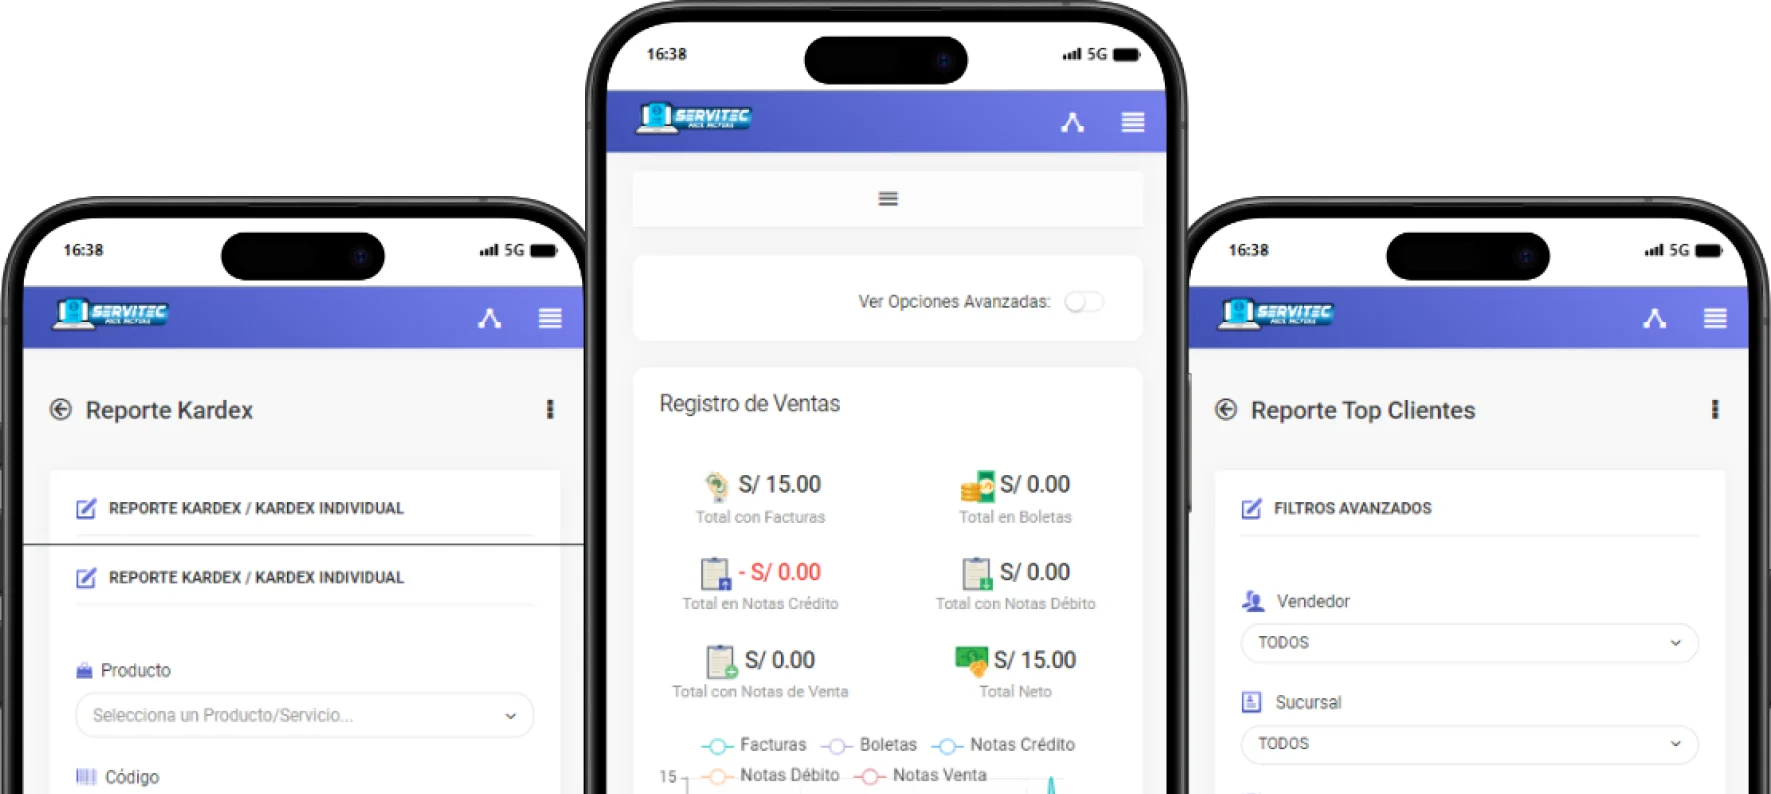
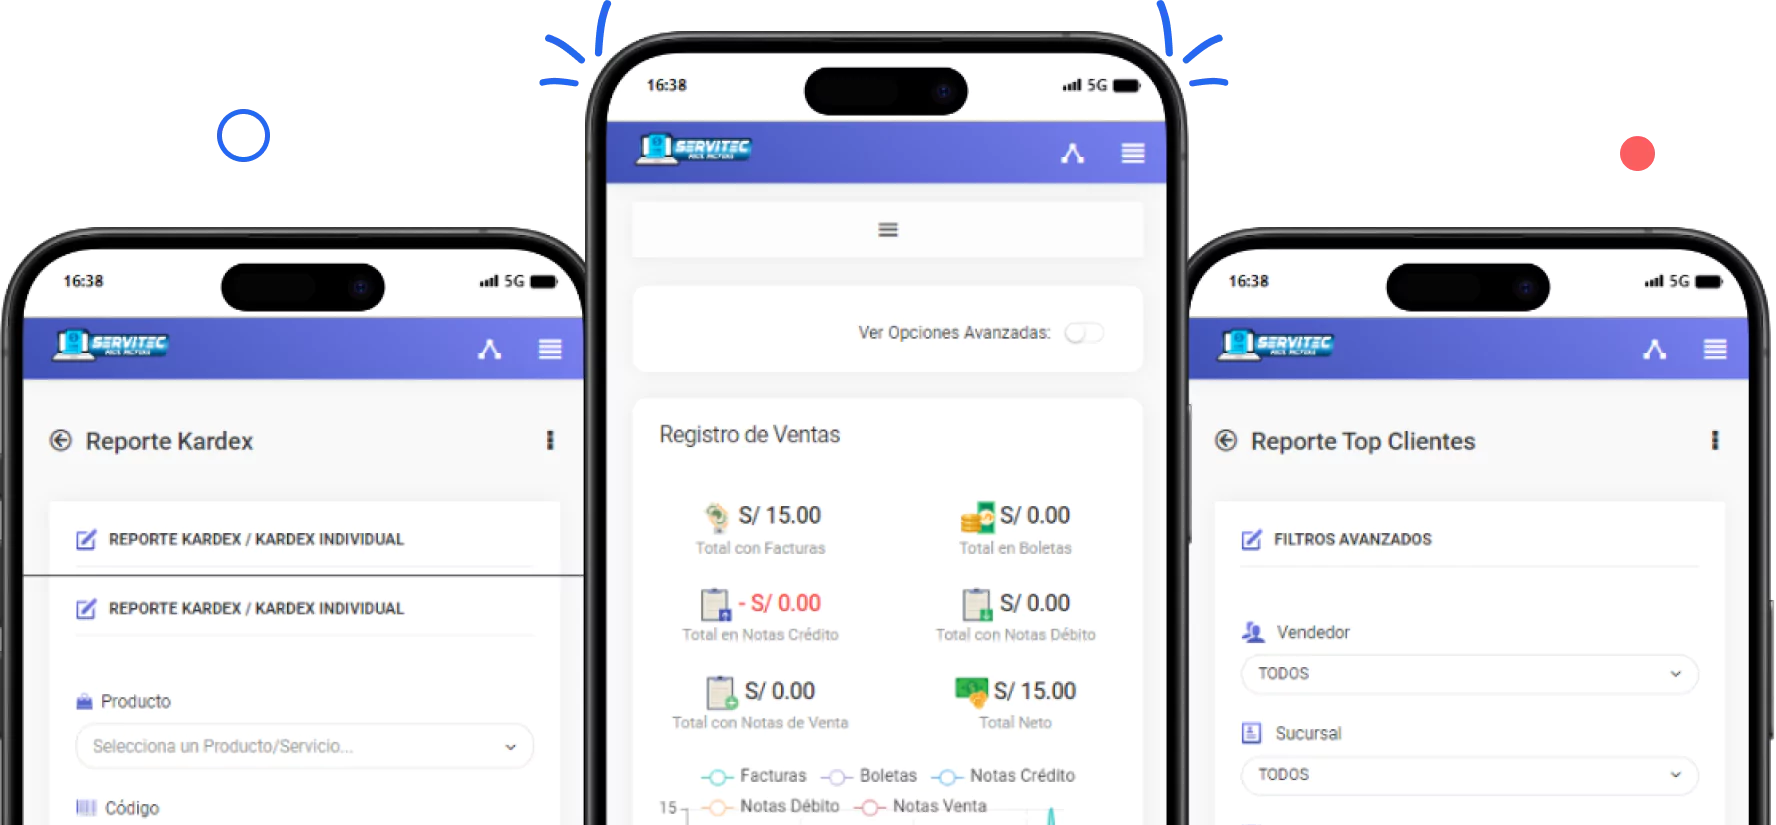
Added new images

diff --git a/src/images/index.js b/src/images/index.js
@@ -15,10 +15,6 @@ export { default as ImgFacturaService2 } from "./webp/img-factura2.webp";
 export { default as ImgFacturaService3 } from "./webp/img-factura3.webp";
 export { default as ImgFacturaService4 } from "./webp/img-factura4.webp";
 export { default as ImgFacturaService5 } from "./webp/info-box10.webp";
-export { default as ImgPlan1 } from "./webp/01-diseno.webp";
-export { default as ImgPlan2 } from "./webp/02-diseno.webp";
-export { default as ImgPlan3 } from "./webp/03-diseno.webp";
-export { default as ImgPlan4 } from "./webp/04-diseno.webp";
 export { default as MovilRight } from "./webp/movil-right.webp";
 export { default as MovilLeft } from "./webp/movil-left.webp";
 export { default as BannerPhones } from "./webp/banner-phones.webp";
@@ -30,6 +26,7 @@ export { default as MobileReports } from "./webp/mobile-reports.webp";
 export { default as MobileFunctions } from "./webp/mobile-functions.webp";
 export { default as Step3Complete } from "./webp/complete.webp";
 export { default as ScreenDesktop } from "./webp/screen-desktop.webp";
+export { default as ScreenDesktop2 } from "./webp/screen-desktop2.webp";
 export { default as Brand1 } from "./webp/brand-alvillantas.webp";
 export { default as Brand2 } from "./webp/brand-hankook-alvillantas.webp";
 export { default as Brand3 } from "./webp/brand-servitec-peru.webp";
@@ -46,6 +43,8 @@ export { default as Brand13 } from "./webp/brand-servitec-store.webp";
 export { default as BrandLavid } from "./webp/brand-lavid.webp";
 export { default as LogoVerificadoSunat } from "./webp/logo-verificado-sunat.webp";
 export { default as LogoIsoiec } from "./webp/logo-iso-27001.webp";
+export { default as StarPurple } from "./webp/star.webp";
+export { default as GreenCircle } from "./webp/green-circle.webp";
 
 // -------SVG-------
 export * from "./svg/Phone";

diff --git a/src/pages/home/PrincipalSection.js b/src/pages/home/PrincipalSection.js
@@ -1,5 +1,10 @@
 import styled from "styled-components";
-import { CurvedLineBackground, BannerPhones } from "../../images";
+import {
+  CurvedLineBackground,
+  BannerPhones,
+  StarPurple,
+  GreenCircle,
+} from "../../images";
 import { mediaQuery } from "../../styles";
 import { Button } from "../../components";
 import { useNavigate } from "react-router";
@@ -15,6 +20,12 @@ export const PrincipalSection = () => {
 
   return (
     <Container>
+      <img src={StarPurple} alt="star - facil factura" className="star-item" />
+      <img
+        src={GreenCircle}
+        alt="circulo - facil factura"
+        className="circle-item"
+      />
       <CurvedLineBackground
         style={{
           position: "absolute",
@@ -69,8 +80,40 @@ const Container = styled.section`
   min-height: 85vh;
   height: auto;
   position: relative;
+
   ${mediaQuery.minTablet} {
-    min-height: 48rem;
+    min-height: 50rem;
+  }
+
+  .star-item,
+  .circle-item {
+    width: 1.1em;
+    height: 1.1em;
+    position: absolute;
+    z-index: 200;
+    ${mediaQuery.minTablet} {
+      width: 1.5em;
+      height: 1.5em;
+    }
+  }
+
+  .star-item {
+    top: 20%;
+    right: 7%;
+
+    ${mediaQuery.minTablet} {
+      top: 23%;
+      right: 20%;
+    }
+  }
+  .circle-item {
+    top: 39%;
+    left: 7%;
+
+    ${mediaQuery.minTablet} {
+      top: 36%;
+      left: 20%;
+    }
   }
 
   &::after {

diff --git a/src/pages/home/DesktopSection.js b/src/pages/home/DesktopSection.js
@@ -1,5 +1,5 @@
 import styled, { css } from "styled-components";
-import { ScreenDesktop } from "../../images";
+import { ScreenDesktop2 } from "../../images";
 import { WrapperComponent } from "../../components";
 import { mediaQuery } from "../../styles";
 
@@ -8,7 +8,10 @@ export const DesktopSection = () => {
     <Container>
       <WrapperComponent>
         <div className="content">
-          <img src={ScreenDesktop} alt="Imagen de la vista de Facil Factura en una computadora." />
+          <img
+            src={ScreenDesktop2}
+            alt="Imagen de la vista de Facil Factura en una computadora."
+          />
         </div>
       </WrapperComponent>
     </Container>
@@ -23,7 +26,7 @@ const Container = styled.section`
       width: 90%;
       margin: 0 auto;
       ${mediaQuery.minTablet} {
-          width: 70%;
+        width: 70%;
       }
     }
 
